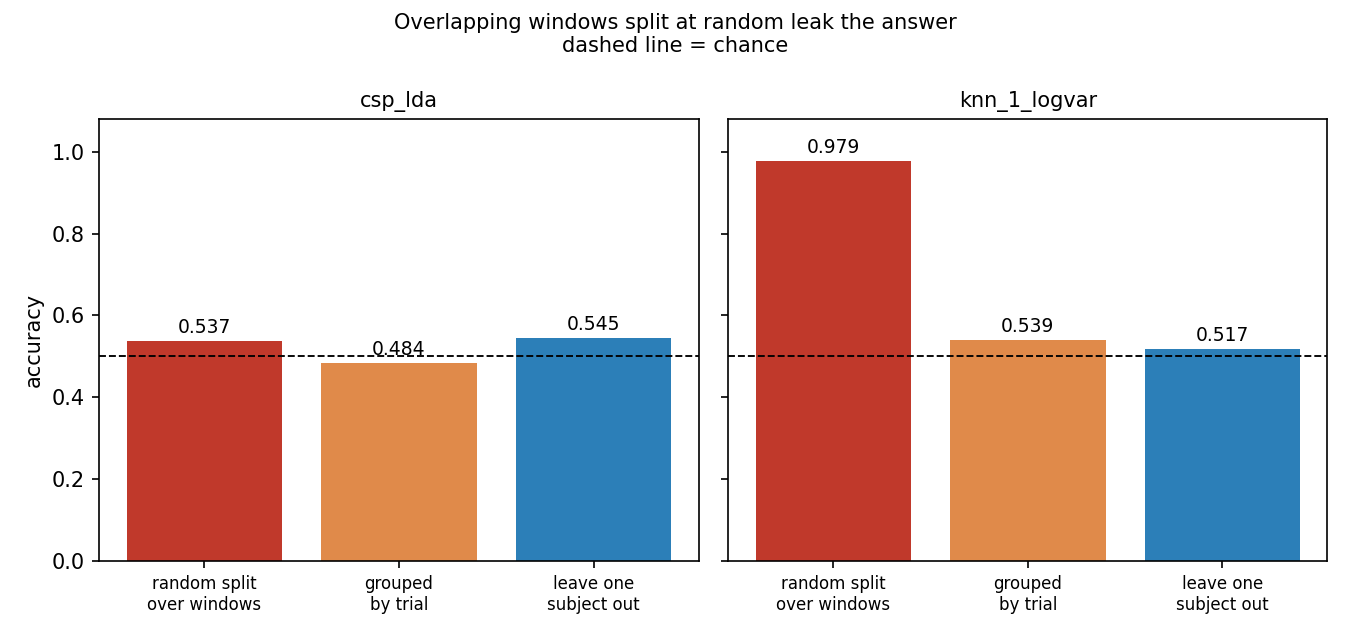
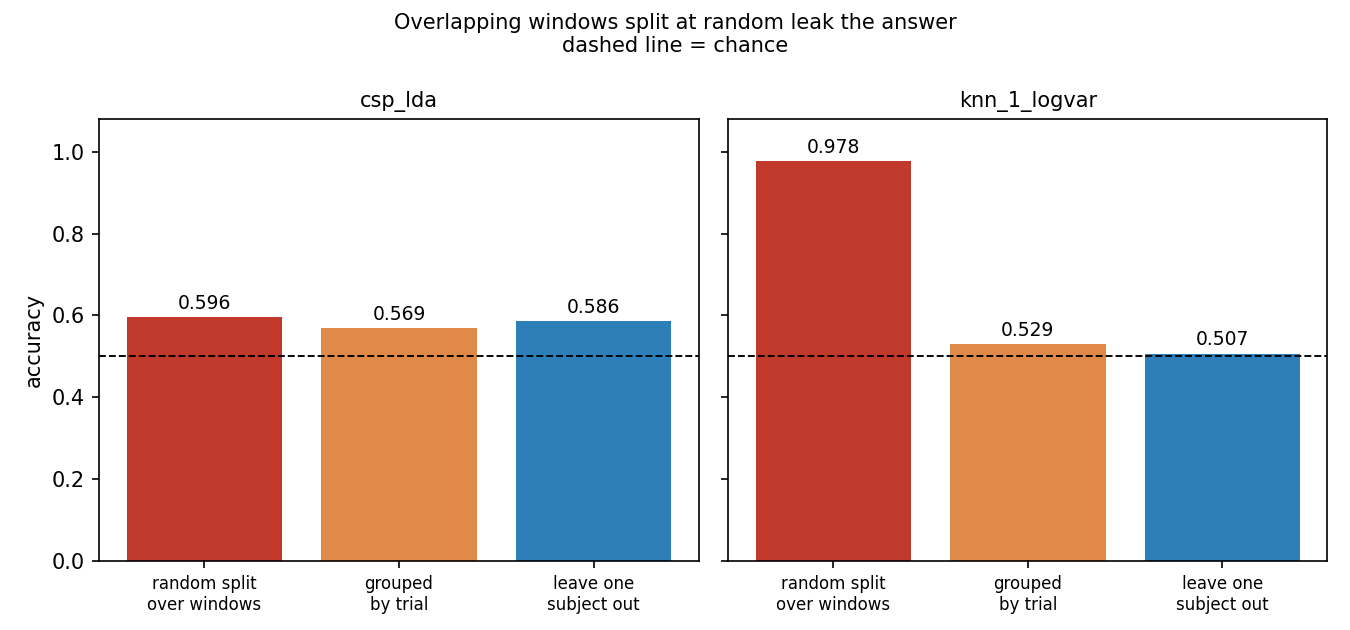
fix: R2 figure was built from stale 30-subject data
leakage.py still wrote to the pre-rename filename, so the fresh 106-subject
run landed in B5_window_leakage.csv while figures.py read the old
R2_window_leakage.csv. renamed the output path and regenerated.

Changed region(s): [[0.0933, 0.4524, 0.4978, 0.6032], [0.7156, 0.4825, 0.8089, 0.573], [0.84, 0.5127, 0.9644, 0.573]]

diff --git a/scripts/leakage.py b/scripts/leakage.py
@@ -96,7 +96,7 @@ def main(a):
                            "gap_window_leak": (m - m2, float("nan")),
                            "gap_subject_leak": (m2 - m3, float("nan"))}.items():
             rows.append({"model": mname, "split": k, "acc": a, "sd": sd})
-    write_rows("results/B5_window_leakage.csv", rows)
+    write_rows("results/R2_window_leakage.csv", rows)
 
 
 if __name__ == "__main__":
